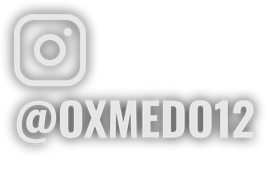
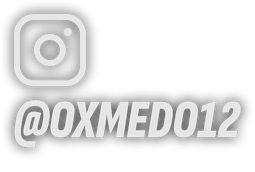
Челлендж v3: новый шрифт, подложка под чек-лист, сборка в два этапа
Claude-Session: https://claude.ai/code/session_014b6iEBjPGyacsH4fnBbVwQ

diff --git a/tools/challenge/render3.py b/tools/challenge/render3.py
@@ -1,12 +1,14 @@
 # Челлендж-рилс v3 (08.11). Запуск: python3 render3.py [--force]
-# Исходники в raw/ (C022-C026 с папки на Диске), шрифты в fonts/, маски mask_C023.png и mask_C024.png.
+# Исходники в raw/ (C022-C026 с папки на Диске), шрифт fonts2/SofiaXC.ttf (Google Fonts: Sofia Sans Extra Condensed, Black Italic), маски mask_C023.png и mask_C024.png.
+# "python3 render3.py grade" считает только цвет; без аргумента: цвет из кэша, надписи, переход, финальный файл.
 import subprocess, os, sys
 from concurrent.futures import ThreadPoolExecutor
 B = os.path.dirname(os.path.abspath(__file__))
 T = f'{B}/txt3'
 OUT = f'{B}/seg3'
-F_TITLE = f'{B}/fonts/Rubik.ttf'
-F_NAME = f'{B}/fonts/Oswald.ttf'
+# Шрифт v3: Sofia Sans Extra Condensed Black Italic (Google Fonts, кириллица). Тонкая обводка и мягкая тень вместо толстого контура.
+F_TITLE = f'{B}/fonts2/SofiaXC.ttf'
+F_NAME = f'{B}/fonts2/SofiaXC.ttf'
 F_SYM = '/usr/share/fonts/truetype/dejavu/DejaVuSans-Bold.ttf'
 CROP = {'C025': 'crop=900:1600:0:20', 'C023': 'crop=900:1600:0:20', 'C026': 'crop=900:1600:58:20', 'C022': 'crop=900:1600:58:20'}
 MASK = {'C025': 'mask_C023', 'C023': 'mask_C023', 'C026': 'mask_C024', 'C022': 'mask_C024'}
@@ -23,7 +25,7 @@ GRADE = ("hqdn3d=1.5:1.2:3.5:3.5,curves=master='0/0.015 0.04/0.11 0.12/0.30 0.3/
 GLOW, VIGNETTE = 0.22, 'PI/14'
 # Значок Instagram с ником всё время в кадре, место меняется каждые WM_STEP секунд (как в примере, и от перезаливов).
 WM_STEP = 6
-WM_POS = [('60', '1120'), ('W-w-60', '330'), ('60', '520'), ('W-w-60', '1000')]
+WM_POS = [('60', '1050'), ('W-w-60', '330'), ('60', '520'), ('W-w-60', '1000')]
 # Галочка через 0,2 с после того, как рука выпрямилась в конце жима (размечено по кадрам).
 CHECKS = {'ox': [17.3, 22.9, 27.7, 35.4, 45.3], 'mi': [48.4, 61.4, 76.2, 91.1, 114.2]}
 # (клип, начало, конец, ускорение, кто, метка). Жимы в реальной скорости, переходы ускорены.
@@ -44,55 +46,71 @@ SEG = [
 XFADE = 0.6  # плавный переход в концовку
 
 
-def dtext(fn, font, size, x, y, color='white', extra='', border=4):
-    return f"drawtext=fontfile={font}:textfile={T}/{fn}:fontsize={size}:fontcolor={color}:x={x}:y={y}:borderw={border}:bordercolor=black@0.8{extra}"
+def dtext(fn, font, size, x, y, color='white', extra='', border=2):
+    return (f"drawtext=fontfile={font}:textfile={T}/{fn}:fontsize={size}:fontcolor={color}:x={x}:y={y}:borderw={border}:bordercolor=black@0.55"
+            f":shadowcolor=black@0.45:shadowx=0:shadowy=5{extra}")
 
 
 def texts(s, e, sp, who, badge):
     if who == 'end':
         return []
-    tx = [dtext('title.txt', F_TITLE, 78, '(w-text_w)/2', 1415)]
+    tx = [dtext('title.txt', F_TITLE, 112, '(w-text_w)/2', 1380)]
     if who:
-        tx.append(dtext(f'n_{who}.txt', F_NAME, 64, '(w-text_w)/2', 1508, border=3))
-        tx.append(dtext(f's_{who}.txt', F_NAME, 52, '(w-text_w)/2', 1588, border=3))
+        tx.append(dtext(f'n_{who}.txt', F_NAME, 84, '(w-text_w)/2', 1505))
+        tx.append(dtext(f's_{who}.txt', F_NAME, 56, '(w-text_w)/2', 1600, 'white@0.92'))
+        tx.append("drawbox=x=iw-330:y=535:w=300:h=410:color=black@0.30:t=fill")
         for k, ev in enumerate(CHECKS[who]):
             y = 560 + k * 78
             done_from = 0.0 if ev < s else ((ev - s) / sp if ev < e else None)
             if done_from is None:
-                tx += [dtext(f'l{k}.txt', F_NAME, 44, 'w-200-text_w', y, 'white@0.55', border=2),
-                       dtext('circ.txt', F_SYM, 48, 'w-170', y - 2, 'white@0.55', border=2)]
+                tx += [dtext(f'l{k}.txt', F_NAME, 54, 'w-200-text_w', y, 'white@0.68', border=2),
+                       dtext('circ.txt', F_SYM, 48, 'w-170', y - 2, 'white@0.68', border=2)]
                 continue
             pre = f":enable='lt(t,{done_from:.2f})'"
             post = f":enable='gte(t,{done_from:.2f})'"
             if done_from > 0:
-                tx += [dtext(f'l{k}.txt', F_NAME, 44, 'w-200-text_w', y, 'white@0.55', pre, 2),
-                       dtext('circ.txt', F_SYM, 48, 'w-170', y - 2, 'white@0.55', pre, 2)]
-            tx += [dtext(f'l{k}.txt', F_NAME, 44, 'w-200-text_w', y, 'white', post, 2),
+                tx += [dtext(f'l{k}.txt', F_NAME, 54, 'w-200-text_w', y, 'white@0.68', pre, 2),
+                       dtext('circ.txt', F_SYM, 48, 'w-170', y - 2, 'white@0.68', pre, 2)]
+            tx += [dtext(f'l{k}.txt', F_NAME, 54, 'w-200-text_w', y, 'white', post, 2),
                    dtext('chk.txt', F_SYM, 50, 'w-172', y - 4, '0x3DDC84', post, 3)]
             if done_from > 0:
                 pop = f":enable='between(t,{done_from:.2f},{done_from + 0.8:.2f})'"
                 tx.append(dtext('chk.txt', F_SYM, 230, '(w-text_w)/2', 1150, '0x3DDC84', pop, 8))
     if badge:
-        tx.append(f"drawtext=fontfile={F_NAME}:textfile={T}/{badge}.txt:fontsize=56:fontcolor=black:x=50:y=1310:box=1:boxcolor=white@0.9:boxborderw=16")
+        tx.append(f"drawtext=fontfile={F_NAME}:textfile={T}/{badge}.txt:fontsize=64:fontcolor=black:x=50:y=1270:box=1:boxcolor=white@0.9:boxborderw=14")
     return tx
 
 
-def render(i):
+def grade(i):
+    # Этап 1: цвет, детализация, размытие фона. Без надписей, считается один раз.
     c, s, e, sp, who, badge = SEG[i]
-    out = f'{OUT}/s{i:02d}.mp4'
-    if os.path.exists(out) and '--force' not in sys.argv:
+    out = f'{OUT}/g{i:02d}.mp4'
+    if os.path.exists(out) and '--regrade' not in sys.argv:
         return out, 'cached'
     dur = (e - s) / sp
-    tx = texts(s, e, sp, who, badge)
-    tail = (',' + ','.join(tx)) if tx else ''
     fc = (f"[0:v]setpts=(PTS-STARTPTS)/{sp},fps=24000/1001,{CROP[c]},scale=1080:1920:flags=lanczos,{GRADE};"
           f"[g]format=gbrp,split=3[s][b][h];"
           f"[h]curves=all='0/0 0.72/0 1/1',gblur=sigma=25[hg];[b]gblur=sigma=9[bb];[1:v]format=gray[m];[s][m]alphamerge[sa];"
           f"[bb][sa]overlay=format=auto,format=gbrp[c];[c][hg]blend=all_mode=screen:all_opacity={GLOW},vignette=angle={VIGNETTE},"
-          f"format=yuv420p,noise=alls=3:allf=t{tail}[v]")
+          f"format=yuv420p,noise=alls=3:allf=t[v]")
     cmd = ['ffmpeg', '-v', 'error', '-y', '-ss', str(s), '-to', str(e), '-i', f'{B}/raw/{c}.mp4', '-loop', '1', '-i', f'{B}/{MASK[c]}.png',
-           '-f', 'lavfi', '-i', 'anullsrc=r=48000:cl=stereo', '-filter_complex', fc, '-map', '[v]', '-map', '2:a', '-t', f'{dur:.3f}',
-           '-c:v', 'libx264', '-preset', 'medium', '-crf', '16', '-pix_fmt', 'yuv420p', '-c:a', 'aac', '-b:a', '128k', out]
+           '-filter_complex', fc, '-map', '[v]', '-t', f'{dur:.3f}', '-an',
+           '-c:v', 'libx264', '-preset', 'medium', '-crf', '14', '-pix_fmt', 'yuv420p', out + '.part.mp4']
+    r = subprocess.run(cmd, capture_output=True, text=True)
+    if r.returncode == 0:
+        os.replace(out + '.part.mp4', out)
+    return out, ('ok' if r.returncode == 0 else r.stderr[-800:])
+
+
+def render(i):
+    # Этап 2: надписи поверх готового цвета. Быстро, шрифт можно менять без пересчёта цвета.
+    c, s, e, sp, who, badge = SEG[i]
+    src, out = f'{OUT}/g{i:02d}.mp4', f'{OUT}/s{i:02d}.mp4'
+    tx = texts(s, e, sp, who, badge)
+    vf = ','.join(tx) if tx else 'null'
+    cmd = ['ffmpeg', '-v', 'error', '-y', '-i', src, '-f', 'lavfi', '-i', 'anullsrc=r=48000:cl=stereo', '-vf', vf,
+           '-map', '0:v', '-map', '1:a', '-shortest', '-c:v', 'libx264', '-preset', 'medium', '-crf', '16', '-pix_fmt', 'yuv420p',
+           '-c:a', 'aac', '-b:a', '128k', out]
     r = subprocess.run(cmd, capture_output=True, text=True)
     return out, ('ok' if r.returncode == 0 else r.stderr[-800:])
 
@@ -103,6 +121,14 @@ def dur_of(p):
 
 
 os.makedirs(OUT, exist_ok=True)
+with ThreadPoolExecutor(max_workers=4) as ex:
+    gres = list(ex.map(grade, range(len(SEG))))
+for i, (p, st) in enumerate(gres):
+    if st not in ('ok', 'cached'):
+        print('grade fail', i, st); sys.exit(1)
+print('grade done', flush=True)
+if 'grade' in sys.argv:
+    sys.exit(0)
 with ThreadPoolExecutor(max_workers=4) as ex:
     res = list(ex.map(render, range(len(SEG))))
 for i, (p, st) in enumerate(res):

diff --git a/tools/challenge/fontsheet.py b/tools/challenge/fontsheet.py
@@ -1,0 +1,29 @@
+import subprocess
+from PIL import ImageFont
+F = [('1', 'fonts2/SofiaXC.ttf'), ('2', 'fonts2/Unbounded.ttf'), ('3', 'fonts2/FiraXC.ttf'), ('4', 'fonts2/InterTight.ttf'),
+     ('5', 'fonts2/Dela.ttf'), ('6', 'fonts2/Alumni.ttf'), ('7', 'fonts2/Montserrat.ttf'), ('0', 'fonts/Rubik.ttf')]
+SYM = '/usr/share/fonts/truetype/dejavu/DejaVuSans-Bold.ttf'
+def fit(font, text, width):
+    s = 200
+    while ImageFont.truetype(font, s).getbbox(text)[2] > width: s -= 2
+    return s
+def esc(t): return t.replace(':', '\\:')
+outs = []
+for lab, font in F:
+    ts, ns, ag, ls = fit(font, 'НОВЫЙ ЧЕЛЛЕНДЖ', 800), fit(font, 'OXMEDO', 330), fit(font, '15 ЛЕТ', 170), fit(font, 'СИДЯ', 120)
+    st = ':borderw=2:bordercolor=black@0.55:shadowcolor=black@0.45:shadowx=0:shadowy=5'
+    d = [f"drawtext=fontfile={font}:text='НОВЫЙ ЧЕЛЛЕНДЖ':fontsize={ts}:fontcolor=white:x=(w-text_w)/2:y=1415{st}",
+         f"drawtext=fontfile={font}:text='OXMEDO':fontsize={ns}:fontcolor=white:x=(w-text_w)/2:y=1415+{int(ts*1.15)}{st}",
+         f"drawtext=fontfile={font}:text='15 ЛЕТ':fontsize={ag}:fontcolor=white@0.9:x=(w-text_w)/2:y=1415+{int(ts*1.15)+int(ns*1.15)}{st}"]
+    for k, (l, done) in enumerate([('ЛЁЖА', 1), ('СИДЯ', 1), ('СТОЯ', 0)]):
+        y = 560 + k * 78
+        d.append(f"drawtext=fontfile={font}:text='{l}':fontsize={ls}:fontcolor=white{'' if done else '@0.55'}:x=w-200-text_w:y={y}{st}")
+        d.append(f"drawtext=fontfile={SYM}:text='{'✔' if done else '○'}':fontsize=50:fontcolor={'0x3DDC84' if done else 'white@0.55'}:x=w-172:y={y-4}{st}")
+    d.append(f"crop=1080:1300:0:480,scale=432:-1,drawtext=fontfile={SYM}:text='{lab}':fontsize=44:fontcolor=yellow:x=12:y=10:box=1:boxcolor=black@0.7:boxborderw=8")
+    o = f'gt/font_{lab}.png'
+    subprocess.run(['ffmpeg', '-v', 'error', '-y', '-i', 'gt/B_C026_25.0_j.png', '-vf', ','.join(d), o], check=True)
+    outs.append(o)
+args = []
+for o in outs: args += ['-i', o]
+subprocess.run(['ffmpeg', '-v', 'error', '-y', *args, '-filter_complex', f"{''.join(f'[{i}]' for i in range(len(outs)))}xstack=inputs={len(outs)}:layout=0_0|w0_0|w0+w1_0|w0+w1+w2_0|0_h0|w0_h0|w0+w1_h0|w0+w1+w2_h0", 'gt/fontsheet.png'], check=True)
+print('ok')

diff --git a/tools/challenge/make_wm.py b/tools/challenge/make_wm.py
@@ -3,7 +3,7 @@ import sys
 from PIL import Image, ImageDraw, ImageFont, ImageFilter
 S = 4  # рисуем крупно и уменьшаем для гладких краёв
 icon, pad = 72, 14
-font = ImageFont.truetype('fonts/Oswald.ttf', 46 * S)
+font = ImageFont.truetype('fonts2/SofiaXC.ttf', 54 * S)
 text = sys.argv[1] if len(sys.argv) > 1 else '@MIKO_OLOO'
 tw = font.getbbox(text)[2]
 W = max(icon * S, tw) + 2 * pad * S

diff --git a/.claude/MIKAEL_DICTIONARY.md b/.claude/MIKAEL_DICTIONARY.md
@@ -101,6 +101,7 @@
 | 08.11 | Про v3: "Давай вес не писать, я передумал. А то мало как то. Пусть вауэффект будет" | "Вес" здесь про штангу: 20 и 30 кг на экране выглядят слабо и убивают впечатление, хотя блины смотрятся тяжело. Вес тела 80 и 100 кг маленьким не назовёшь, его оставили (проверить по реакции) | В челленджах вес снаряда не пишем, если цифра звучит легче, чем выглядит. Неправду тоже не пишем: без цифры, а не с завышенной. Вес тела подписываем словом "ВЕС", чтобы цифру не приняли за вес штанги |
 | 08.11 | (кадр из примера) "Здесь у них иконка инстаграмма с их ником, это тоже пусть при выполнении упр всегда будет в кадре. У них оно меняет положение на экране. Плюс у них куда светлее... если попробуешь цветокоррекцию использовать и это исправить, будет топчик" | Хочет брендинг аккаунта в каждом кадре и светлую, "дневную" картинку, как у популярных челленджей | В его видео значок Instagram и @miko_oloo всё время в кадре и переезжает по экрану, не закрывая надписи. Картинку делаем светлой (ориентир: средняя яркость кадра около 80-95 из 255), без молочных чёрных. Ник второго участника ставим, только если он даст свой аккаунт |
 | 08.11 | "Возраст пиши, вес не надо" (и ссылка на Instagram друга oxmedo12) | Прошлое прочтение было неполным: убрать и вес тела тоже, на экране остаётся только возраст | В челленджах на экране прозвище и возраст, без веса. Ник в значке Instagram по тому, кто в кадре: @oxmedo12 на частях друга, @miko_oloo на частях Микаела и в концовке |
+| 08.11 | "Со шрифтом ещё помудрить, более эстетичный и подходящий для действий на видео подбери. А то он какой то дишманский" | Rubik Black Italic с толстой чёрной обводкой выглядит мультяшно и дёшево (как шаблон CapCut) | Для видео с движением: высокий узкий жирный курсив (Sofia Sans Extra Condensed Black Italic, кириллица есть), тонкая обводка и мягкая тень вместо толстого контура, подложка под мелкий текст на светлом фоне. Шрифт выбираем сами и показываем лист из 6-8 вариантов на кадре из его видео, чтобы он мог сменить одной цифрой |
 | 23.10 | Я очень однообразно выражаюсь, может даже непонятно | Просит догадываться о смысле | Запросы сначала через request-interpreter |
 
 ## Что ему нравится

diff --git a/content/CHALLENGE_BENCH.md b/content/CHALLENGE_BENCH.md
@@ -49,6 +49,7 @@
 - Детализация через футболку: подняты глубокие тени, локальный контраст по яркости (крупный радиус для рельефа, мелкий для фактуры), шумодав слабее, зерно тоньше. Синеву в тенях убрали, чтобы чёрное оставалось чёрным.
 - Светлее, как в примере (просьба Микаела 08.11): средняя яркость кадра около 80 из 255 вместо 36 в v2 (у примера около 96). Чёрная точка на месте, свечение и виньетка слабее. Ещё светлее не поднимали: чёрный потолок зала уходит в серое, вылезает шум.
 - Значок Instagram с ником всё время в кадре, место меняется каждые 6 секунд (4 точки, не закрывают чек-лист, надписи и большую галочку). Ник того, кто в кадре: на частях друга @OXMEDO12 (его аккаунт instagram.com/oxmedo12, дал Микаел), на частях Микаела и в концовке @MIKO_OLOO. Как в примере, плюс защита от перезаливов. Значок рисует скрипт tools/challenge/make_wm.py.
+- Шрифт (просьба Микаела 08.11, прежний "дишманский"): Sofia Sans Extra Condensed Black Italic для всех надписей и ника, тонкая обводка и мягкая тень, тёмная подложка под чек-лист. Запасные варианты на листе: Unbounded, Fira Sans Extra Condensed, Inter Tight, Dela Gothic One, Alumni Sans, Montserrat. Сборка в два этапа: цвет считается один раз (g-файлы), надписи накладываются за пару минут, так шрифт можно менять быстро.
 - Концовка: miko после последнего жима садится на скамью, плавный переход (0,6 с) в момент, где вы обнимаетесь и хлопаете друг друга по спине (C023 158-161 с). Без надписей.
 - Скрипт: tools/challenge/render3.py.
 
